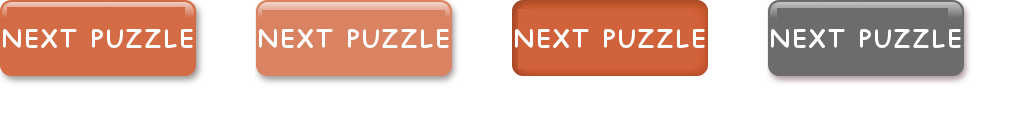
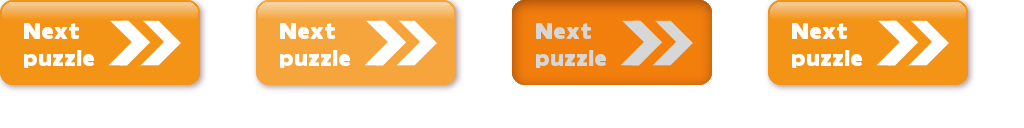
added back to puzzles button

diff --git a/logic/gui/puzzle_view.py b/logic/gui/puzzle_view.py
@@ -158,6 +158,8 @@ class GUI_puzzle_container(GUI_element):
 
     def On_Exit(self):
         GUI_element.On_Exit(self)
+        if not self.pause_button is None:
+            self.pause_button.Kill()
         for x in self.objs:
             x.Kill()
 
@@ -177,6 +179,22 @@ class GUI_puzzle_pause_button(GUI_element_button):
         self.y = -16
         self.width = 105
         self.height = 105
+        self.dying = False
+
+
+    def Execute(self):
+        if self.dying:
+            self.alpha -= 0.05
+            if self.alpha < 0:
+                self.parent.pause_button = None
+                self.Kill()
+        else:
+            self.update()
+            
+
+    def fade_and_die(self):
+        self.dying = True
+
 
     def mouse_left_up(self):
         GUI_element_button.mouse_left_up(self)
@@ -548,6 +566,7 @@ class GUI_puzzle(GUI_element):
             if self.anim_state == 0:
                 self.hovered_column = -1
                 self.hovered_row = -1
+                self.parent.pause_button.fade_and_die()
 
                 if self.title_text is None and self.additional_text is None:
                     self.game.gui.block_gui_keyboard_input = True
@@ -621,6 +640,7 @@ class GUI_puzzle(GUI_element):
             if self.anim_state == 0:
                 self.hovered_column = -1
                 self.hovered_row = -1
+                self.parent.pause_button.fade_and_die()
 
                 if self.title_text is None and self.additional_text is None:                    
                     self.game.gui.block_gui_keyboard_input = True
@@ -710,6 +730,9 @@ class GUI_puzzle(GUI_element):
                     self.game.cursor_tool_state = DRAWING_TOOL_STATE_NORMAL                    
                     self.objs.append(
                         Button_Next_Puzzle(self.game, self)
+                        )
+                    self.objs.append(
+                        Button_Select_Puzzle(self.game, self)
                         )
                     self.buttons_to_continue = True
 
@@ -886,7 +909,6 @@ class GUI_puzzle(GUI_element):
 
         for x in self.parent.objs:
             x.alpha = self.hint_alpha
-        self.parent.pause_button.alpha = self.hint_alpha
 
         self.draw_strategy_reset_hint_gradients = True
         
@@ -2102,10 +2124,10 @@ class Button_Next_Puzzle(GUI_element_button):
         self.z = Z_GUI_OBJECT_LEVEL_7
         self.image = self.game.core.media.gfx['gui_button_next_puzzle']
         self.gui_init()
-        self.x = self.game.settings['screen_width'] - self.image.width + 16
+        self.x = self.game.settings['screen_width'] - self.image.width + 32
         self.y = self.game.settings['screen_height'] - self.image.height + 16
-        self.width = 196
-        self.height = 76
+        self.width = 200
+        self.height = 90
         self.alpha = 0.0
         self.wait_to_display = 50
         
@@ -2123,3 +2145,36 @@ class Button_Next_Puzzle(GUI_element_button):
         GUI_element_button.mouse_left_up(self)
         self.parent.go_next_puzzle()
 
+
+
+class Button_Select_Puzzle(GUI_element_button):
+    generic_button = False
+
+    def __init__(self, game, parent = None):
+        Process.__init__(self)
+        self.game = game
+        self.parent = parent
+        self.z = Z_GUI_OBJECT_LEVEL_7
+        self.image = self.game.core.media.gfx['gui_button_select_puzzle']
+        self.x = 32
+        self.y = 32
+        self.width = 100
+        self.height = 100
+        self.gui_init()
+        self.alpha = 0.0
+        self.wait_to_display = 50
+        
+
+    def Execute(self):
+        self.update()
+        self.wait_to_display -= 1
+        if self.wait_to_display > 0:
+            return
+        if self.alpha < 1.0:
+            self.alpha += .05
+            
+
+    def mouse_left_up(self):
+        GUI_element_button.mouse_left_up(self)
+        self.parent.close_puzzle_cleanup()
+        self.parent.close_puzzle()

diff --git a/media.cpp b/media.cpp
@@ -141,6 +141,7 @@ Media::Media(Main_App* _game)
     gfx.insert(pair<string, Image*>("gui_puzzle_cell_black_designer", new Image("gfx/puzzle_cell_black_designer.png")));
 
     gfx.insert(pair<string, Image*>("gui_button_next_puzzle", new Image("gfx/button_next_puzzle.png", False, 4)));
+    gfx.insert(pair<string, Image*>("gui_button_select_puzzle", new Image("gfx/button_select_puzzle.png", False, 4)));
 
     gfx.insert(pair<string, Image*>("gui_heart", new Image("gfx/heart.png", False, 2)));
 
